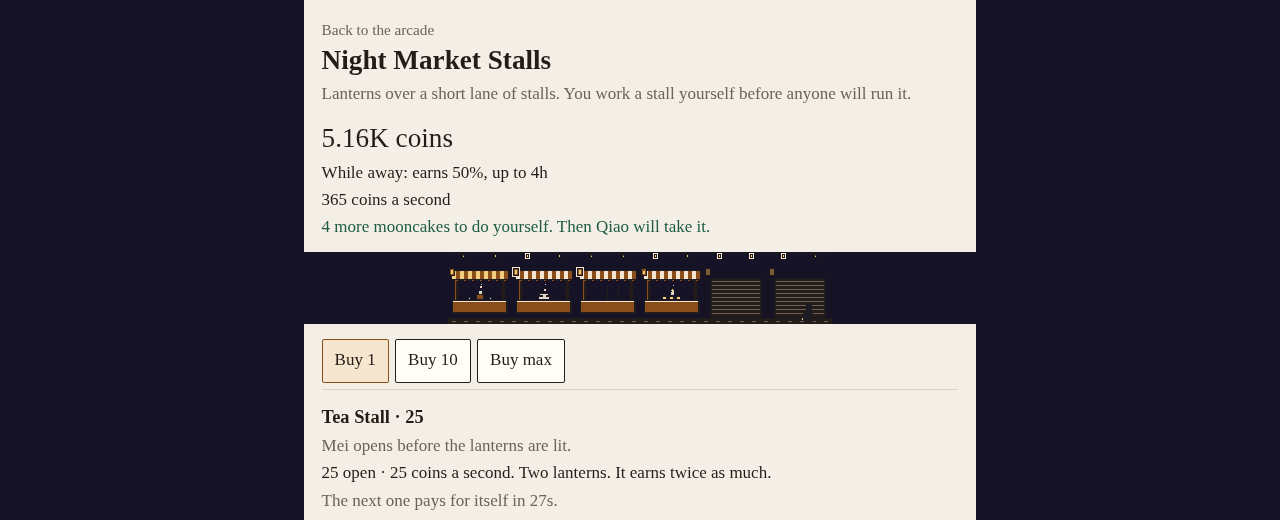
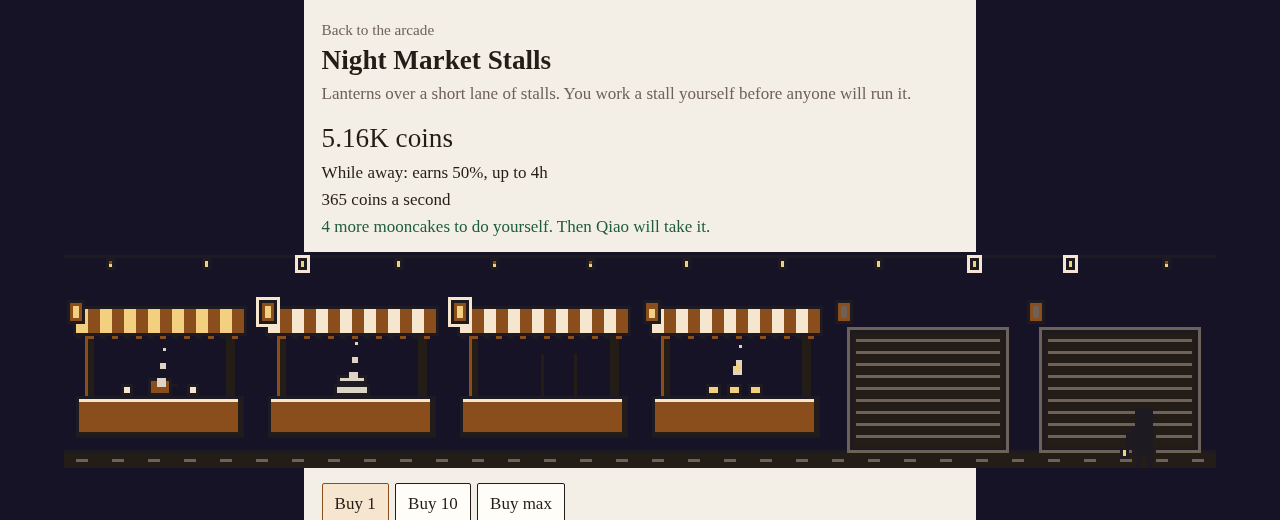
Night Market visuals: the lane breaks out of the column (2x from 768, 3x from 1152), shrinks to fit under 384 px so no stall is cut off; shutter rim and bigger cups; fresh shots

diff --git a/tests/night-market.html b/tests/night-market.html
@@ -329,7 +329,7 @@ document.querySelector('#run').onclick = async function () {
     // ---- ART-NM-1: the lane strip (effects 0-5)
     var NL = w.NightLane, lc = d.getElementById('lane'), hk = w.__nightMarket;
     var wait = function (ms) { return new Promise(function (r) { setTimeout(r, ms); }); };
-    check('the lane strip is a 384x72 canvas scaled by a whole number', NL && lc.width === 384 && lc.height === 72 && +lc.dataset.scale >= 1 && lc.style.width === (384 * +lc.dataset.scale) + 'px');
+    check('the lane strip is a 384x72 canvas, scaled by a whole number from 384 px up', NL && lc.width === 384 && lc.height === 72 && (+lc.dataset.scale < 1 ? lc.style.width === Math.floor(384 * +lc.dataset.scale) + 'px' : (+lc.dataset.scale === Math.floor(+lc.dataset.scale) && lc.style.width === (384 * +lc.dataset.scale) + 'px')));
     NL.step(1);
     var pal = Object.keys(NL.PALETTE).map(function (k) { return NL.PALETTE[k]; });
     var colours = function () { var px = lc.getContext('2d').getImageData(0, 0, 384, 72).data, seen = {};
@@ -367,6 +367,21 @@ document.querySelector('#run').onclick = async function () {
     d.querySelector('#stalls [data-act="serve"]').click(); check('...but a sale still shows one still coin', NL.coinsOn() >= 1);
     NL.setReduce(false); await wait(200); check('...and motion comes back when allowed', NL.live);
     check('the strip only reads the save state (the model never sees it)', !('lane' in hk.state) && Object.keys(w.NightMarket).indexOf('NightLane') < 0);
+
+    // GAD fixes on #438: the lane breaks out of the column, and no stall is ever cut off
+    var laneBox = d.querySelector('.lane');
+    for (var lw = 0, widths = [[320, 640], [375, 700], [390, 700], [768, 800], [820, 800], [1280, 800], [1920, 900]]; lw < widths.length; lw++) {
+      var ww = widths[lw][0], expect = ww < 384 ? ww / 384 : Math.min(3, Math.floor(ww / 384));
+      frame.style.width = ww + 'px'; frame.style.height = widths[lw][1] + 'px'; await wait(120);
+      var cr = lc.getBoundingClientRect(), vwid = d.documentElement.clientWidth;
+      check(ww + ' wide: the strip scale is ' + (ww < 384 ? 'shrunk to fit' : Math.floor(expect) + 'x') + ', centred, and every stall is whole on screen', Math.abs(+lc.dataset.scale - expect) < 0.01 && cr.left >= -0.5 && cr.right <= vwid + 0.5 && Math.abs(cr.width - Math.floor(384 * expect)) <= 1 && d.documentElement.scrollWidth <= ww + 1 && Math.abs((cr.left + cr.right) / 2 - vwid / 2) <= 1.5);
+    }
+    frame.style.width = '1280px'; frame.style.height = '800px'; await wait(120);
+    check('on a wide window the lane is wider than the 42rem column (it breaks out to 3x)', lc.getBoundingClientRect().width === 1152 && lc.getBoundingClientRect().width > d.querySelector('.window').getBoundingClientRect().width);
+    frame.style.width = '320px'; frame.style.height = '700px'; await wait(120);
+    check('320 wide: the Tea Stall (slot 0) and the sixth stall (slot 5) are both fully inside the canvas on screen', lc.getBoundingClientRect().left >= 0 && lc.getBoundingClientRect().right <= 320.5 && lc.getBoundingClientRect().width >= 319);
+    var sh = lc.getContext('2d').getImageData(5 * 64 + 5, 12 + 13, 1, 1).data, shc = '#' + [sh[0], sh[1], sh[2]].map(function (x) { return ('0' + x.toString(16)).slice(-2); }).join('');
+    check('shuttered stalls have a lighter rim so they read against the night', shc === NL.PALETTE.mute);
 
     // the save box: real-looking, working controls
     var saveBox = d.querySelector('details.save'); saveBox.open = true; saveBox.dispatchEvent(new w.Event('toggle'));

diff --git a/games/night-market/lane.js b/games/night-market/lane.js
@@ -32,6 +32,7 @@
     for (var i = 0; i < 6; i++) { var x0 = i * SLOT, y0 = TOP; if (open(i)) stallOpen(c, i, x0, y0); else stallShut(c, x0, y0); }
   }
   function stallShut(c, x0, y0) {
+    rect(c, x0 + 5, y0 + 13, 54, 42, 'mute');                       // a lighter rim so a shuttered stall has an edge on the night
     box(c, x0 + 6, y0 + 14, 52, 40, 'timber');
     for (var y = y0 + 17; y < y0 + 52; y += 4) rect(c, x0 + 8, y, 48, 1, 'mute');
   }
@@ -45,7 +46,7 @@
     box(c, x0 + 4, y0 + 36, 56, 14, 'amber');                                                 // counter
     rect(c, x0 + 5, y0 + 37, 54, 1, 'wash'); rect(c, x0 + 5, y0 + 48, 54, 1, 'timber'); rect(c, x0 + 58, y0 + 37, 1, 12, 'timber');
     var cx0 = x0 + 32, cy = y0 + 36;                                                          // what the stall sells, on the counter
-    if (i === 0) { box(c, cx0 - 4, cy - 6, 8, 6, 'amber'); rect(c, cx0 + 4, cy - 4, 2, 1, 'ink'); box(c, cx0 + 9, cy - 3, 3, 3, 'wash'); box(c, cx0 - 12, cy - 3, 3, 3, 'wash'); }
+    if (i === 0) { box(c, cx0 - 4, cy - 6, 8, 6, 'amber'); rect(c, cx0 + 4, cy - 4, 2, 1, 'ink'); box(c, cx0 + 9, cy - 4, 4, 4, 'wash'); box(c, cx0 - 13, cy - 4, 4, 4, 'wash'); }
     if (i === 1) { box(c, cx0 - 6, cy - 4, 12, 4, 'rule'); box(c, cx0 - 5, cy - 7, 10, 3, 'rule'); }
     if (i === 2) { rect(c, cx0 - 1, cy - 14, 1, 14, 'timber'); rect(c, cx0 + 10, cy - 14, 1, 14, 'timber'); }
     if (i === 3) { for (var m = 0; m < 3; m++) box(c, cx0 - 10 + m * 7, cy - 4, 5, 4, 'lamp'); }
@@ -165,8 +166,12 @@
   function stillFor(ms) { draw(); setTimeout(function () { coins.forEach(function (c) { c.on = false; }); flashes = []; draw(); }, ms); }
 
   function fit() {
-    var wrap = cv.parentNode, k = Math.max(1, Math.floor(wrap.clientWidth / W));
-    cv.style.width = (W * k) + 'px'; cv.style.height = (H * k) + 'px'; cv.dataset.scale = String(k);
+    // The lane breaks out of the page column to the full page width. Whole-number scale from 384 px up (2x from 768, 3x from
+    // 1152, never more than 3x). Below 384 px a 1x strip can't fit, so it shrinks to the page width with every stall whole
+    // (the one place the scale isn't a whole number, so the Tea Stall is never cut off).
+    var vw = document.documentElement.clientWidth || W, wrap = cv.parentNode, k = vw < W ? vw / W : Math.min(3, Math.floor(vw / W));
+    wrap.style.width = vw + 'px';
+    cv.style.width = Math.floor(W * k) + 'px'; cv.style.height = Math.floor(H * k) + 'px'; cv.dataset.scale = String(+k.toFixed(3));
   }
 
   window.NightLane = {

diff --git a/games/night-market/style.css b/games/night-market/style.css
@@ -37,15 +37,18 @@ h1 { font-size: 1.7rem; line-height: 1.15; margin: 0.15rem 0 0.35rem; font-weigh
 }
 .rate, .goal { margin: 0.15rem 0; }
 .goal { color: var(--good); }
-.lane { /* ART-NM-1: the lane strip, whole-number scale only, centred on the night colour */
+.lane { /* ART-NM-1: the lane strip breaks out of the 42rem column to the page width (set by lane.js), whole-number scale */
+  position: relative;
+  left: 50%;
+  transform: translateX(-50%);
+  width: 100%;
   background: var(--night);
-  margin: 0.8rem -1.1rem 0.2rem;
+  margin: 0.8rem 0 0.2rem;
   display: flex;
   justify-content: center;
   overflow: hidden;
 }
 .lane canvas { display: block; flex: none; image-rendering: pixelated; image-rendering: crisp-edges; }
-@media (max-width: 380px) { .lane { margin-left: -0.8rem; margin-right: -0.8rem; } }
 .bulk {
   display: flex;
   flex-wrap: wrap;
